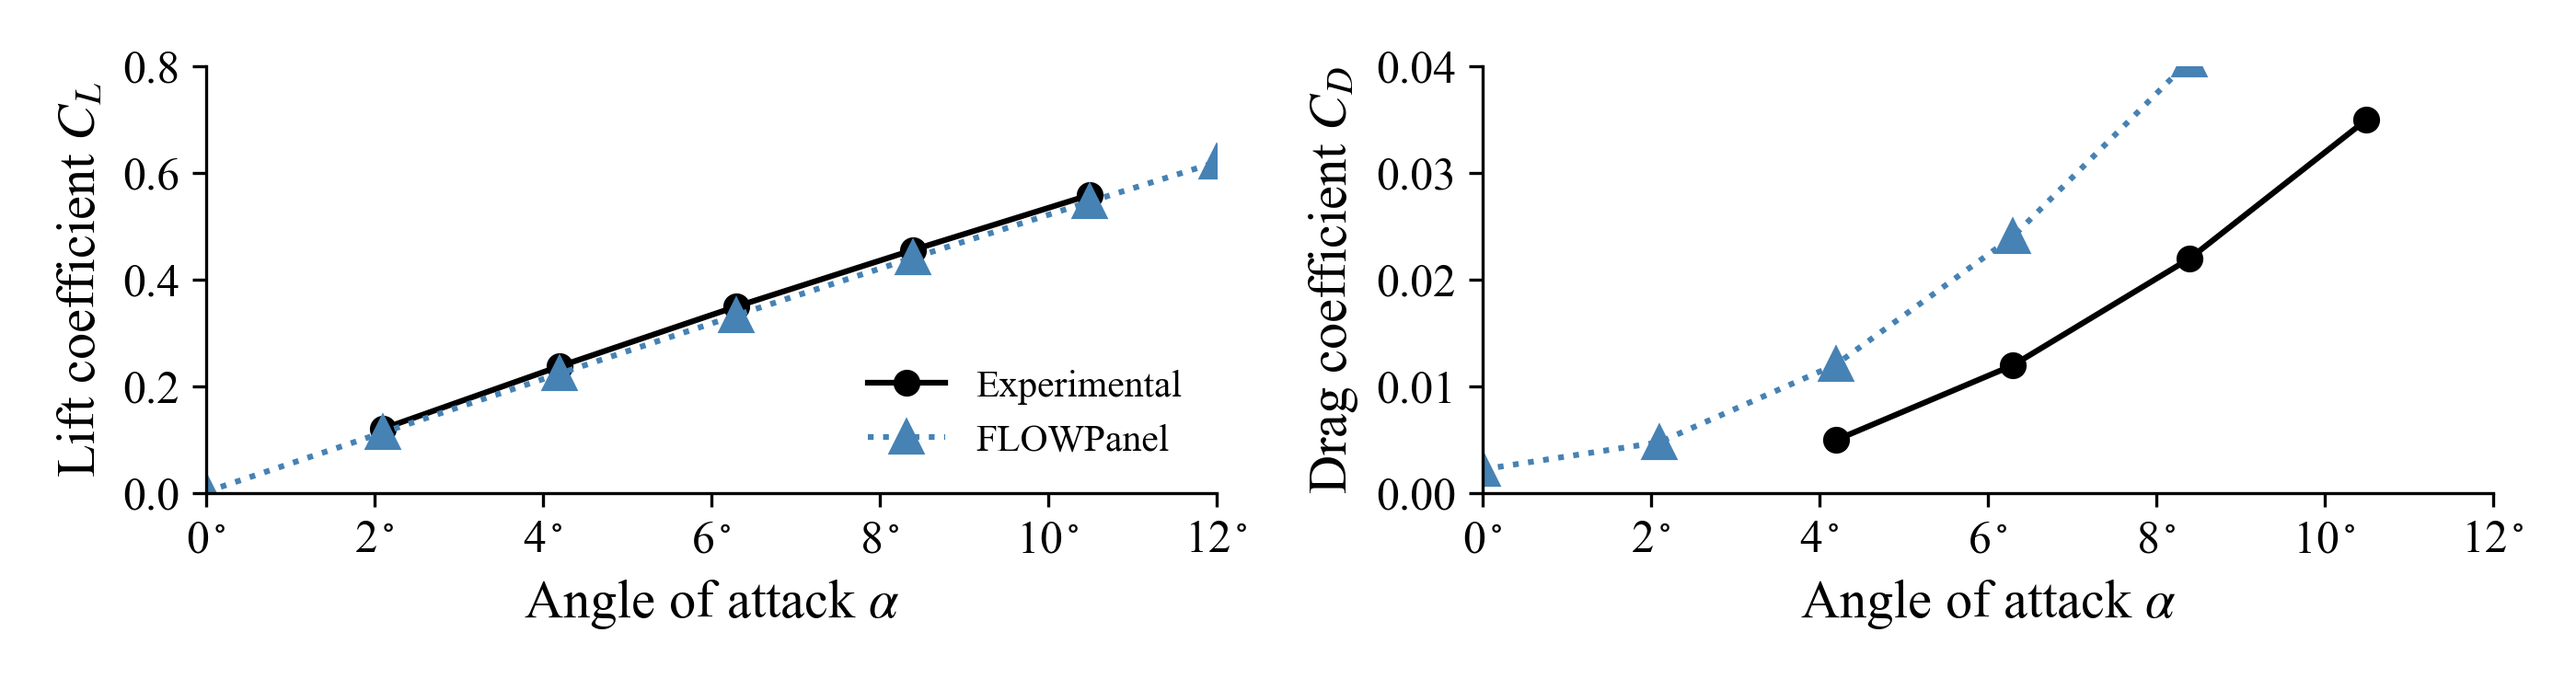
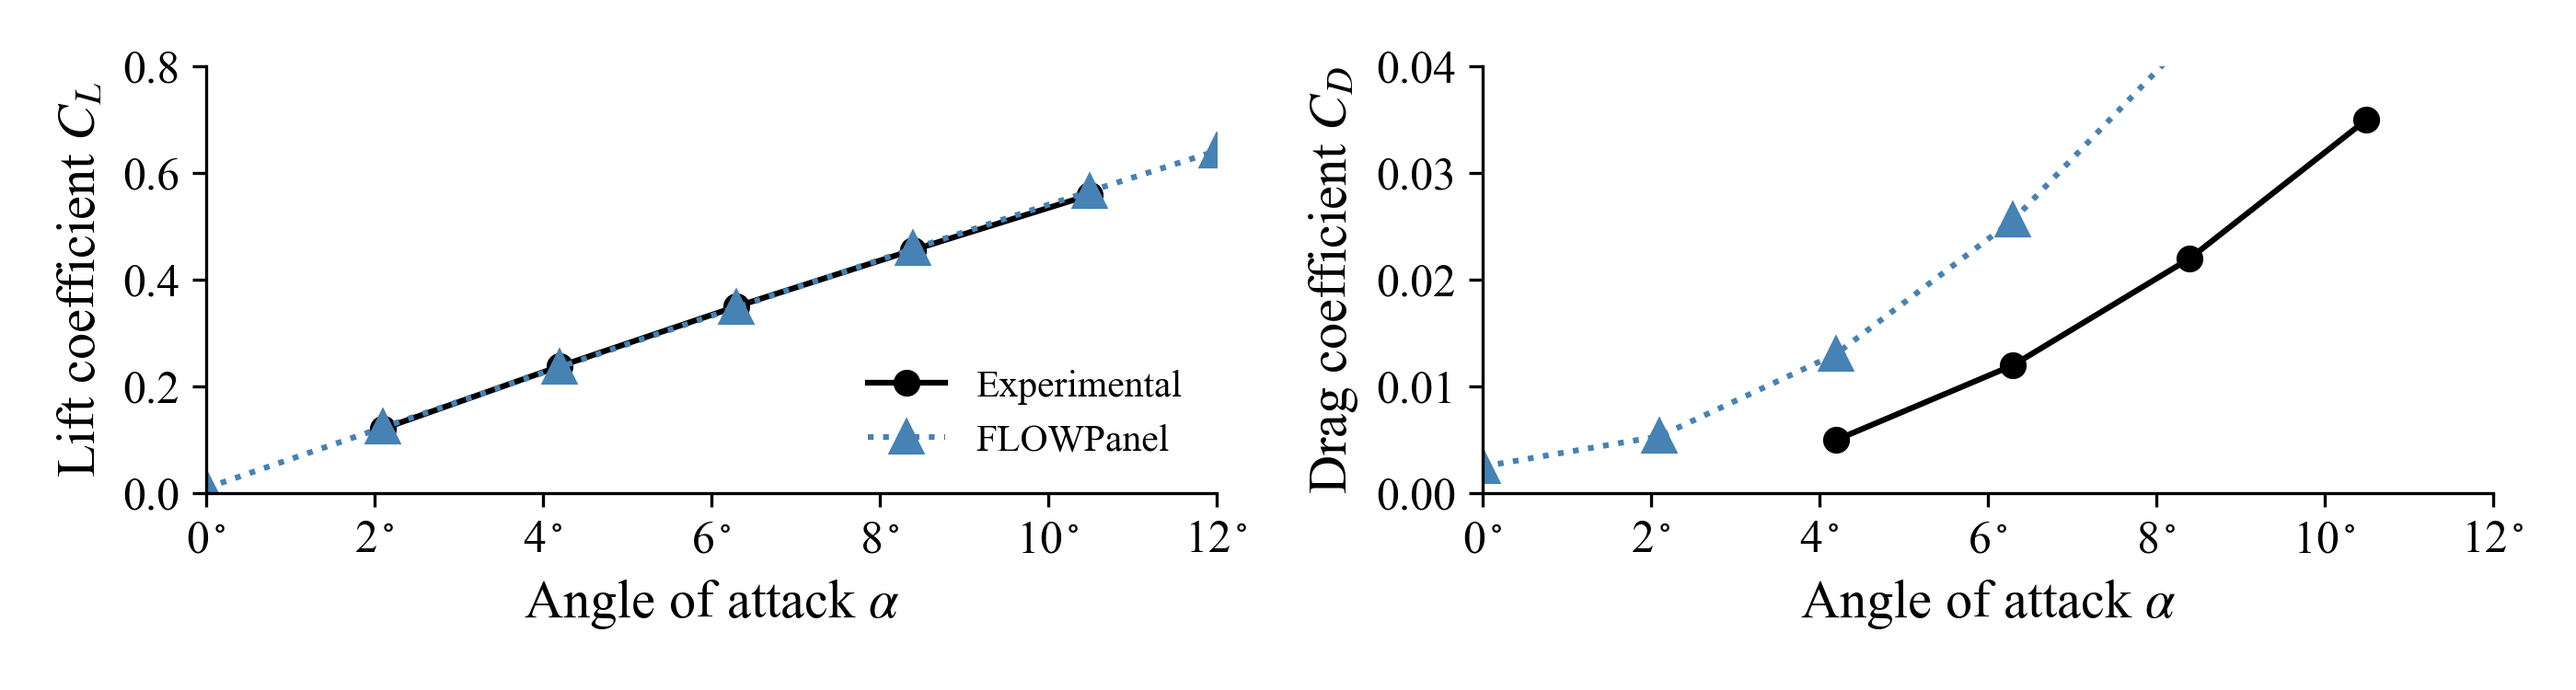
Ugradphi for MultiBody and avoid open edge

diff --git a/docs/src/examples/sweptwing-solver.md b/docs/src/examples/sweptwing-solver.md
@@ -61,6 +61,12 @@ function calc_lift_drag(body, b, ar, Vinf, magVinf, rho; verbose=true, lbl="")
     Us = pnl.calcfield_U(body, body; fieldname="Uoff",
                             offset=0.02, characteristiclength=(args...)->b/ar)
 
+    # Calculate surface velocity U_∇μ due to the gradient of the doublet strength
+    UDeltaGamma = pnl.calcfield_Ugradmu(body)
+
+    # Add both velocities together
+    pnl.addfields(body, "Ugradmu", "Uoff")
+
     # Calculate pressure coeffiecient
     Cps = pnl.calcfield_Cp(body, magVinf; U_fieldname="Uoff")
 
@@ -102,10 +108,10 @@ CL, CD, str = calc_lift_drag(body, b, ar, Vinf, magVinf, rho; lbl="Backslash")
 
 |          Solver | CL      | CD      |
 | --------------: | :-----: | :-----: |
-|       Backslash | 0.2247  | 0.0130  |
+|       Backslash | 0.2335  | 0.0132  |
 |    Experimental | 0.238   | 0.005   |
 
-	CL Error:	5.57﹪
+	CL Error:	1.89﹪
 	Run time:	0.44 seconds
 
 ## LU decomposition
@@ -128,11 +134,11 @@ CL, CD, str = calc_lift_drag(body, b, ar, Vinf, magVinf, rho; lbl="LUdiv")
 ```
 |          Solver | CL      | CD      |
 | --------------: | :-----: | :-----: |
-|           LUdiv | 0.2247  | 0.0130  |
+|           LUdiv | 0.2335  | 0.0132  |
 |    Experimental | 0.238   | 0.005   |
 
-	CL Error:	5.57﹪
-	Run time:	0.48 seconds
+	CL Error:	1.89﹪
+	Run time:	0.44 seconds
 
 ## Iterative Krylov Solver
 
@@ -162,10 +168,10 @@ CL, CD, str = calc_lift_drag(body, b, ar, Vinf, magVinf, rho; lbl="GMRES tol=1e-
 ```
 |          Solver | CL      | CD      |
 | --------------: | :-----: | :-----: |
-|  GMRES tol=1e-8 | 0.2247  | 0.0130  |
+|  GMRES tol=1e-8 | 0.2335  | 0.0132  |
 |    Experimental | 0.238   | 0.005   |
 
-	CL Error:	5.57﹪
+	CL Error:	1.89﹪
 
 	Simple stats
 	 niter: 286
@@ -176,7 +182,7 @@ CL, CD, str = calc_lift_drag(body, b, ar, Vinf, magVinf, rho; lbl="GMRES tol=1e-
 	 κ₂(A): []
 	 status: solution good enough given atol and rtol
 	
-	Run time:	0.70 seconds
+	Run time:	0.71 seconds
 
 Running the solver with tolerance $10^{-2}$:
 ```julia
@@ -190,10 +196,10 @@ CL, CD, str = calc_lift_drag(body, b, ar, Vinf, magVinf, rho; lbl="GMRES tol=1e-
 ```
 |          Solver | CL      | CD      |
 | --------------: | :-----: | :-----: |
-|  GMRES tol=1e-2 | 0.2239  | 0.0123  |
+|  GMRES tol=1e-2 | 0.2331  | 0.0129  |
 |    Experimental | 0.238   | 0.005   |
 
-	CL Error:	5.93﹪
+	CL Error:	2.06﹪
 
 	Simple stats
 	 niter: 88
@@ -218,10 +224,10 @@ CL, CD, str = calc_lift_drag(body, b, ar, Vinf, magVinf, rho; lbl="GMRES tol=1e-
 ```
 |          Solver | CL      | CD      |
 | --------------: | :-----: | :-----: |
-|  GMRES tol=1e-1 | 0.2520  | 0.0126  |
+|  GMRES tol=1e-1 | 0.2625  | 0.0133  |
 |    Experimental | 0.238   | 0.005   |
 
-	CL Error:	 5.9﹪
+	CL Error:	10.3﹪
 
 	Simple stats
 	 niter: 25
@@ -232,5 +238,5 @@ CL, CD, str = calc_lift_drag(body, b, ar, Vinf, magVinf, rho; lbl="GMRES tol=1e-
 	 κ₂(A): []
 	 status: solution good enough given atol and rtol
 	
-	Run time:	0.30 seconds
+	Run time:	0.29 seconds
 

diff --git a/docs/src/examples/sweptwing-4p2aoa.md b/docs/src/examples/sweptwing-4p2aoa.md
@@ -168,6 +168,16 @@ println("Post processing...")
 @time Us = pnl.calcfield_U(body, body; fieldname="Uoff",
                         offset=0.02, characteristiclength=(args...)->b/ar)
 
+# NOTE: Since the boundary integral equation of the potential flow has a
+#       discontinuity at the boundary, we need to add the gradient of the
+#       doublet strength to get an accurate surface velocity
+
+# Calculate surface velocity U_∇μ due to the gradient of the doublet strength
+UDeltaGamma = pnl.calcfield_Ugradmu(body)
+
+# Add both velocities together
+pnl.addfields(body, "Ugradmu", "Uoff")
+
 # Calculate pressure coefficient
 @time Cps = pnl.calcfield_Cp(body, magVinf; U_fieldname="Uoff")
 
@@ -210,6 +220,6 @@ distribution and spanwise loading that is plotted here below)
 
 |           | Experimental  | FLOWPanel                 | Error |
 | --------: | :-----------: | :-----------------------: | :---- |
-| $C_L$   | 0.238         | 0.22442    | 5.704% |
-| $C_D$   | 0.005         | 0.01208    | 141.695% |
+| $C_L$   | 0.238         | 0.23648    | 0.64% |
+| $C_D$   | 0.005         | 0.01306    | 161.289% |
 

diff --git a/docs/src/examples/sweptwing-aoasweep.md b/docs/src/examples/sweptwing-aoasweep.md
@@ -37,6 +37,12 @@ for AOA in AOAs
     Us = pnl.calcfield_U(body, body; fieldname="Uoff",
                             offset=0.02, characteristiclength=(args...)->b/ar)
 
+    # Calculate surface velocity U_∇μ due to the gradient of the doublet strength
+    UDeltaGamma = pnl.calcfield_Ugradmu(body)
+
+    # Add both velocities together
+    pnl.addfields(body, "Ugradmu", "Uoff")
+
     # Calculate pressure coeffiecient
     Cps = pnl.calcfield_Cp(body, magVinf; U_fieldname="Uoff")
 

diff --git a/docs/resources/data/sweptwing000-gmres8.md b/docs/resources/data/sweptwing000-gmres8.md
@@ -1,9 +1,9 @@
 |          Solver | CL      | CD      |
 | --------------: | :-----: | :-----: |
-|  GMRES tol=1e-8 | 0.2247  | 0.0130  |
+|  GMRES tol=1e-8 | 0.2335  | 0.0132  |
 |    Experimental | 0.238   | 0.005   |
 
-	CL Error:	5.57﹪
+	CL Error:	1.89﹪
 
 	Simple stats
 	 niter: 286
@@ -14,5 +14,5 @@
 	 κ₂(A): []
 	 status: solution good enough given atol and rtol
 	
-	Run time:	0.70 seconds
+	Run time:	0.71 seconds
 

diff --git a/docs/resources/data/sweptwing000-gmres1.md b/docs/resources/data/sweptwing000-gmres1.md
@@ -1,9 +1,9 @@
 |          Solver | CL      | CD      |
 | --------------: | :-----: | :-----: |
-|  GMRES tol=1e-1 | 0.2520  | 0.0126  |
+|  GMRES tol=1e-1 | 0.2625  | 0.0133  |
 |    Experimental | 0.238   | 0.005   |
 
-	CL Error:	 5.9﹪
+	CL Error:	10.3﹪
 
 	Simple stats
 	 niter: 25
@@ -14,5 +14,5 @@
 	 κ₂(A): []
 	 status: solution good enough given atol and rtol
 	
-	Run time:	0.30 seconds
+	Run time:	0.29 seconds
 

diff --git a/docs/resources/data/sweptwing000-CLCD.md b/docs/resources/data/sweptwing000-CLCD.md
@@ -1,5 +1,5 @@
 |           | Experimental  | FLOWPanel                 | Error |
 | --------: | :-----------: | :-----------------------: | :---- |
-| $C_L$   | 0.238         | 0.22442    | 5.704% |
-| $C_D$   | 0.005         | 0.01208    | 141.695% |
+| $C_L$   | 0.238         | 0.23648    | 0.64% |
+| $C_D$   | 0.005         | 0.01306    | 161.289% |
 

diff --git a/docs/resources/data/sweptwing000-ludiv.md b/docs/resources/data/sweptwing000-ludiv.md
@@ -1,8 +1,8 @@
 |          Solver | CL      | CD      |
 | --------------: | :-----: | :-----: |
-|           LUdiv | 0.2247  | 0.0130  |
+|           LUdiv | 0.2335  | 0.0132  |
 |    Experimental | 0.238   | 0.005   |
 
-	CL Error:	5.57﹪
-	Run time:	0.48 seconds
+	CL Error:	1.89﹪
+	Run time:	0.44 seconds
 

diff --git a/docs/resources/data/sweptwing000-gmres2.md b/docs/resources/data/sweptwing000-gmres2.md
@@ -1,9 +1,9 @@
 |          Solver | CL      | CD      |
 | --------------: | :-----: | :-----: |
-|  GMRES tol=1e-2 | 0.2239  | 0.0123  |
+|  GMRES tol=1e-2 | 0.2331  | 0.0129  |
 |    Experimental | 0.238   | 0.005   |
 
-	CL Error:	5.93﹪
+	CL Error:	2.06﹪
 
 	Simple stats
 	 niter: 88

diff --git a/docs/resources/data/sweptwing000-backslash.md b/docs/resources/data/sweptwing000-backslash.md
@@ -1,8 +1,8 @@
 |          Solver | CL      | CD      |
 | --------------: | :-----: | :-----: |
-|       Backslash | 0.2247  | 0.0130  |
+|       Backslash | 0.2335  | 0.0132  |
 |    Experimental | 0.238   | 0.005   |
 
-	CL Error:	5.57﹪
+	CL Error:	1.89﹪
 	Run time:	0.44 seconds
 
